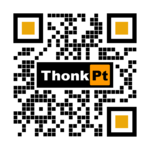
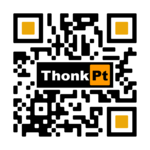
changed the qr code to something not so nsfw

Changed region(s): [[0.08, 0.08, 0.9333, 0.9333]]

diff --git a/index.html b/index.html
@@ -18,7 +18,7 @@
 
 <body>
     <img src="images/thonk.png">
-    <br><strong>Welcome</strong> to this shit hole
+    <br><strong>Welcome</strong> to this <strong>shit</strong> hole
     <h4>HOW TF DID U GET HERE:( </h4>
     <p>Anyways check my HTB out </p>
     <div id="parent">
@@ -29,10 +29,12 @@
     <br>
     <a href="https://discordapp.com/invite/d6zaMXW" class="button">SkyX Discord</a>
     <br>
+    <a href="https://discordapp.com/invite/d6zaMXW" class="button3">One of the best .net obfuscators </a>
+    <br>
     <p> <strong> Random QR Code</strong></p>
     <br> <img src="images/qrcode.png">
-
-
+    <br> h
+    <br> h
 </body>
 
 </html>

diff --git a/CSS/main.css b/CSS/main.css
@@ -1,3 +1,16 @@
+.button3 {
+    background-color: #8533ff;
+    border: none;
+    color: #66ffcc;
+    padding: 10px 34px;
+    text-align: center;
+    text-decoration: none;
+    display: inline-block;
+    font-size: 20px;
+    margin: 4px 2px;
+    cursor: pointer;
+}
+
 .button2 {
     background-color: #8533ff;
     border: none;
